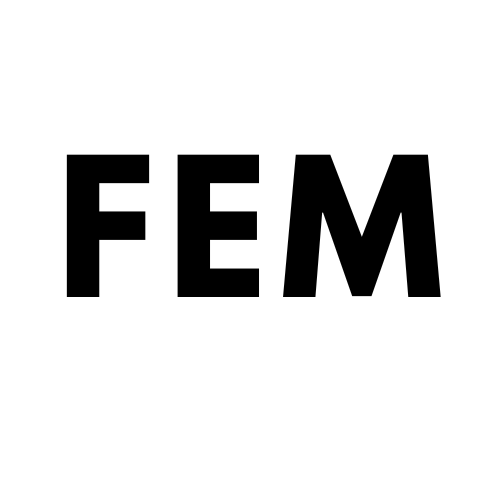
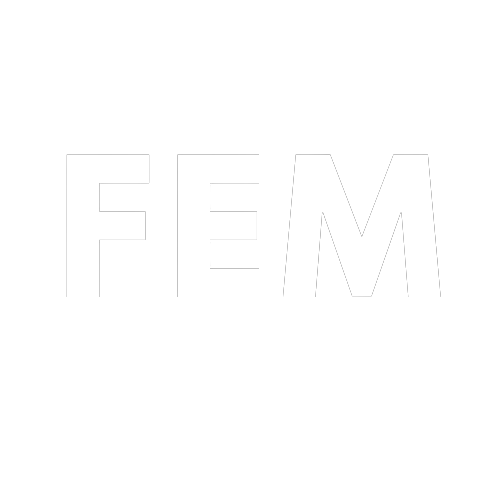
Agregando nuevas imágenes, cambiando a white dos svg y primera versión de la primera parte de la primera página

Changed region(s): [[0.57, 0.3, 0.9, 0.6], [0.33, 0.3, 0.54, 0.6], [0.12, 0.3, 0.3, 0.6]]

diff --git a/css/cssIndex.css b/css/cssIndex.css
@@ -1,25 +1,20 @@
 @import url('https://fonts.googleapis.com/css2?family=Poppins:wght@300;400;600;700&display=swap');
 :root{
-    --primary: #fff;
-    --black: black;
-    --white: #fff;
     --padding-container: 100px 0;
 }
-
-*,
-*::before,
-*::after{
-    margin: 0;
-    padding: 0;
-    box-sizing: border-box;
-}
+    
 
 body{
     font-family: 'Poppins', sans-serif;
-    font-weight: lighter;
-    color: var(--black);
-    background-color: var(--primary);
-    height: 100vh;
+
+}
+
+.container{
+    width: 90%;
+    max-width: 1200px;
+    margin: 0 auto;
+    overflow: hidden;
+    padding: var(--padding-container);
 }
 
 .cabecera{
@@ -30,6 +25,7 @@ body{
     position: relative;
     display: grid;
     grid-template-rows: 100px 1fr;
+    color: #fff;
 }
 
 .cabecera::before{
@@ -46,17 +42,23 @@ body{
 }
 
 .nav{
-    border-bottom: 1px solid var(--white);
     --padding-container: 0;
     height: 100%;
+    display: flex;
+    align-items: center;
 }
 
-
+.nav__logo{
+    padding: 0;
+}
 
 .nav__logo--images{
     height: 80px;
     cursor: pointer;
+    list-style: none;
 }
+
+
 
 .nav__logo--images img{
     height: 100%;
@@ -67,16 +69,47 @@ body{
     transform: scale(1.2);
 }
 
+.nav__title{
+    font-weight: 300;
+}
+
+.nav__link{
+    margin-left: auto;
+    padding: 0;
+    display: grid;
+    grid-auto-flow: column;
+    grid-auto-columns: max-content;
+    gap: 2em;
+}
+
+.nav__items{
+    list-style: none;
+}
+
+.nav__links{
+    text-decoration: none;
+    color: #fff;
+}
+
+.nav__menu{
+    margin-left: auto;
+    cursor: pointer;
+    display: none;
+}
+
+.nav__img{
+    display: block;
+    width: 30px;
+}
+
+.nav__close{
+    display: var(--show,none);
+}
+
 
 /*Esta es la parte siguiente del main*/
 
-.container{
-    width: 90%;
-    max-width: 1200px;
-    margin: 0 auto;
-    overflow: hidden;
-    padding: var(--padding-container);
-}
+
 
 .first__section{
     max-width: 800px;

diff --git a/index.html b/index.html
@@ -26,18 +26,20 @@
                 
                 <ul class="nav__link nav__link--menu">
 
-                    <li class="nav__items"><a href="#">INICIO</a></li>
-                    <li class="nav__items"><a href="#">NOSOTROS</a></li>
-                    <li class="nav__items"><a href="#">CANCIONES</a></li>
-                    <li class="nav__items"><a href="#">RESERVACIÓN</a></li>
-                    <img src="" alt="Cerrar modo Phone">
+                    <li class="nav__items"><a href="#" class="nav__links">INICIO</a></li>
+                    <li class="nav__items"><a href="#" class="nav__links">NOSOTROS</a></li>
+                    <li class="nav__items"><a href="#" class="nav__links">CANCIONES</a></li>
+                    <li class="nav__items"><a href="#" class="nav__links">RESERVACIÓN</a></li>
+                    <img src="./img/cerrar.svg" class="nav__close" alt="Cerrar modo Phone">
                 </ul>
                 <div class="nav__menu">
-                    <img src="" alt="Menu modo Phone">
+                    <img src="./img/menuHamburger.svg" class="nav__img" alt="Menu modo Phone">
                 </div>
             </nav>
             <section class="first__section container">
-                <h1>PONLE MÚSICA A TUS EVENTOS</h1>
+                <h1 class="first__section--title">PONLE MÚSICA A TUS EVENTOS</h1>
+                <p class="first__section--paragrah">Grupo Cajamarquino dedicado a animar misas</p>
+                <a href="#" class="first__section--contactar">CONTACTAR</a>
             </section>
         </header>
 

diff --git a/css/normalize.css b/css/normalize.css
@@ -10,6 +10,12 @@
  * 2. Prevent adjustments of font size after orientation changes in iOS.
  */
 
+
+*{
+  margin: 0;
+  box-sizing: border-box;
+}
+
  html {
     line-height: 1.15; /* 1 */
     -webkit-text-size-adjust: 100%; /* 2 */
@@ -41,7 +47,7 @@
   
   h1 {
     font-size: 2em;
-    margin: 0.67em 0;
+    margin: 0;
   }
   
   /* Grouping content
